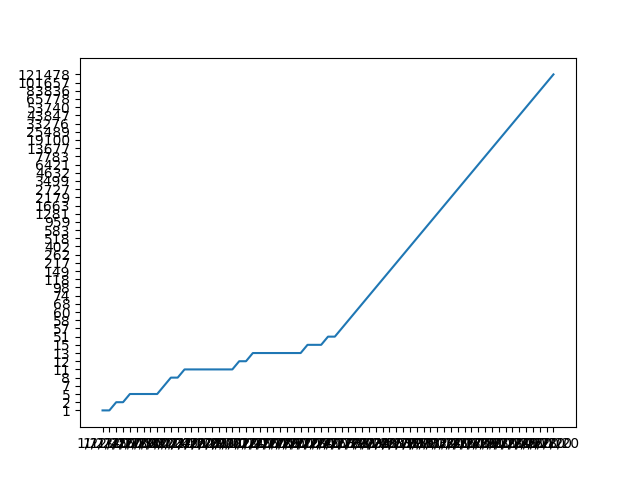
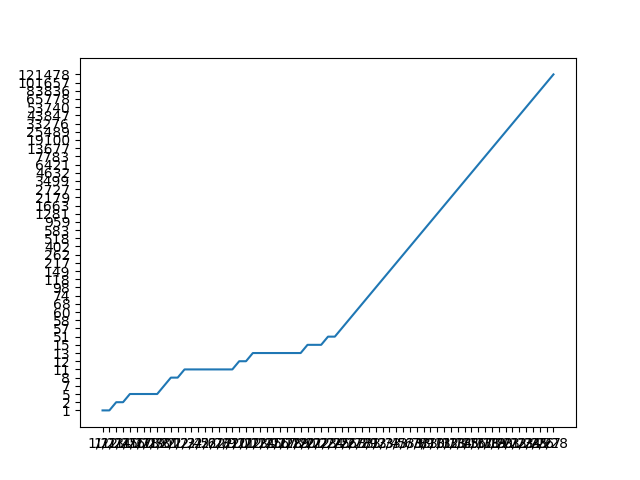
Remove year from dates

Changed region(s): [[0.125, 0.9062, 0.9062, 0.9375]]

diff --git a/process_data.py b/process_data.py
@@ -1,10 +1,15 @@
 
 import csv
+from datetime import datetime
 import matplotlib
 matplotlib.use('Agg')
 import matplotlib.pyplot as plt
 
 INPUT_FILE = "data/confirmed_cases.csv"
+
+def format_date(date_str):
+    date_obj = datetime.strptime(date_str, '%m/%d/%y')
+    return str(date_obj.month) + '/' + str(date_obj.day)
 
 with open(INPUT_FILE) as csv_file:
     csv_reader = csv.reader(csv_file, delimiter=',')
@@ -14,6 +19,8 @@ with open(INPUT_FILE) as csv_file:
     for row in csv_reader:
         if line_count == 0:
             headers = row[4:]
+            headers = map(format_date, headers)
+            headers = list(headers)
             line_count += 1
         else:
             if row[1] == 'US':
